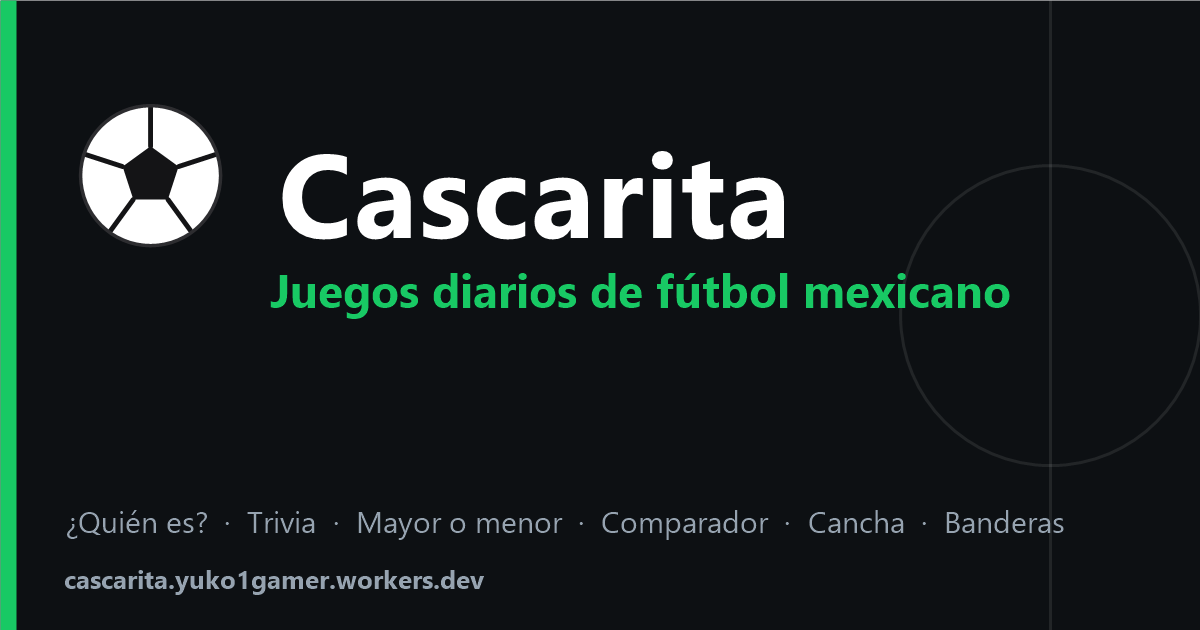
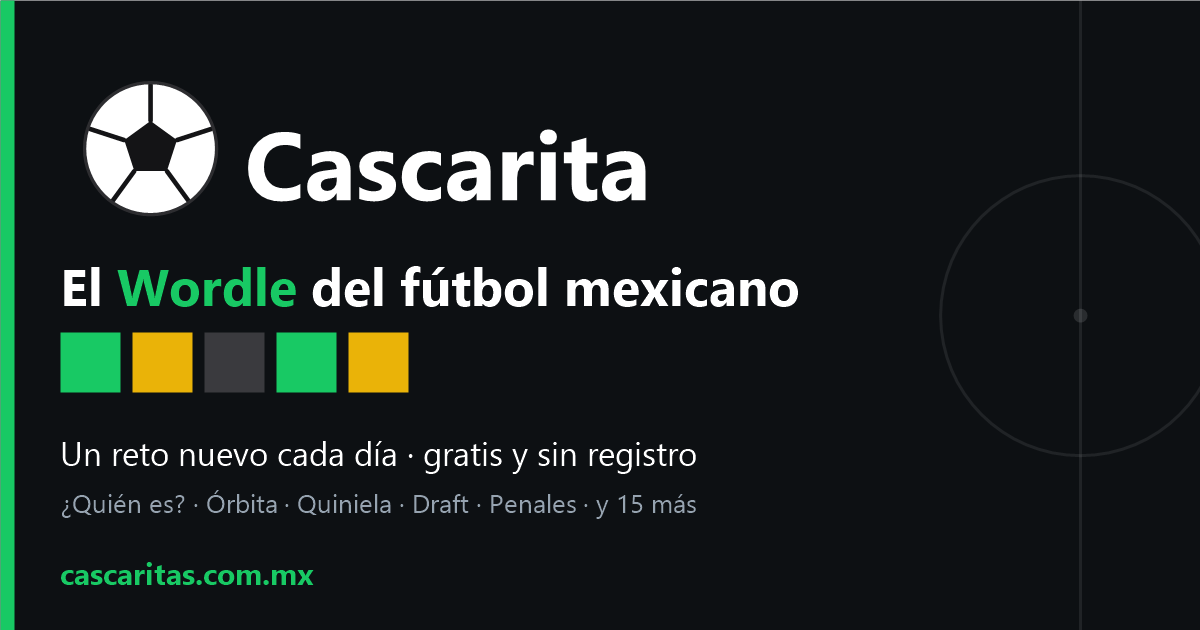
OG/preview: imagen social y meta más vendedores
- Rediseño de assets/og.png (build-og.ps1): gancho "El Wordle del fútbol
  mexicano" (acento verde), fichas estilo Wordle, juegos actuales y la URL
  correcta (cascaritas.com.mx). og_text.json actualizado (estaba con 6
  juegos viejos y la URL workers.dev).
- Portada: título/descripción/OG/Twitter con posicionamiento "reto diario"
  + og:image?v=2 (cache-bust) + og:image:width/height.

diff --git a/index.html b/index.html
@@ -5,20 +5,22 @@
   <meta name="viewport" content="width=device-width, initial-scale=1">
   <meta name="facebook-domain-verification" content="hdqihymwhkai6oagu7co3od5crhlkb" />
   <script async src="https://pagead2.googlesyndication.com/pagead/js/adsbygoogle.js?client=ca-pub-2452147421495188" crossorigin="anonymous"></script>
-  <title>Cascarita — juegos diarios de fútbol mexicano</title>
-  <meta name="description" content="Juegos diarios gratis de la Liga MX: adivina al jugador misterioso, quiniela, trivia y más. Un reto nuevo cada día.">
+  <title>Cascarita — el reto diario del fútbol mexicano</title>
+  <meta name="description" content="20 juegos gratis de la Liga MX: adivina al jugador del día, arma tu quinteto de la jornada, quiniela con amigos y más. Un reto nuevo cada día, sin registro.">
   <link rel="icon" href="/assets/favicon.svg" type="image/svg+xml">
   <link rel="apple-touch-icon" href="/assets/icon-180.png">
   <meta property="og:type" content="website">
   <meta property="og:site_name" content="Cascarita">
-  <meta property="og:title" content="Cascarita — juegos diarios de fútbol mexicano">
-  <meta property="og:description" content="Juegos rápidos y gratis de la Liga MX. Un reto nuevo cada día.">
-  <meta property="og:image" content="https://cascaritas.com.mx/assets/og.png">
+  <meta property="og:title" content="Cascarita — el reto diario del fútbol mexicano">
+  <meta property="og:description" content="20 juegos gratis de la Liga MX. Un reto nuevo cada día: adivina al jugador, arma tu quinteto de la jornada, compite en el ranking. Sin registro.">
+  <meta property="og:image" content="https://cascaritas.com.mx/assets/og.png?v=2">
+  <meta property="og:image:width" content="1200">
+  <meta property="og:image:height" content="630">
   <meta property="og:url" content="https://cascaritas.com.mx/">
   <meta name="twitter:card" content="summary_large_image">
-  <meta name="twitter:title" content="Cascarita — juegos diarios de fútbol mexicano">
-  <meta name="twitter:description" content="Juegos rápidos y gratis de la Liga MX. Un reto nuevo cada día.">
-  <meta name="twitter:image" content="https://cascaritas.com.mx/assets/og.png">
+  <meta name="twitter:title" content="Cascarita — el reto diario del fútbol mexicano">
+  <meta name="twitter:description" content="20 juegos gratis de la Liga MX. Un reto nuevo cada día: adivina al jugador, arma tu quinteto de la jornada, compite en el ranking. Sin registro.">
+  <meta name="twitter:image" content="https://cascaritas.com.mx/assets/og.png?v=2">
   <link rel="stylesheet" href="assets/hub.css">
 </head>
 <body>